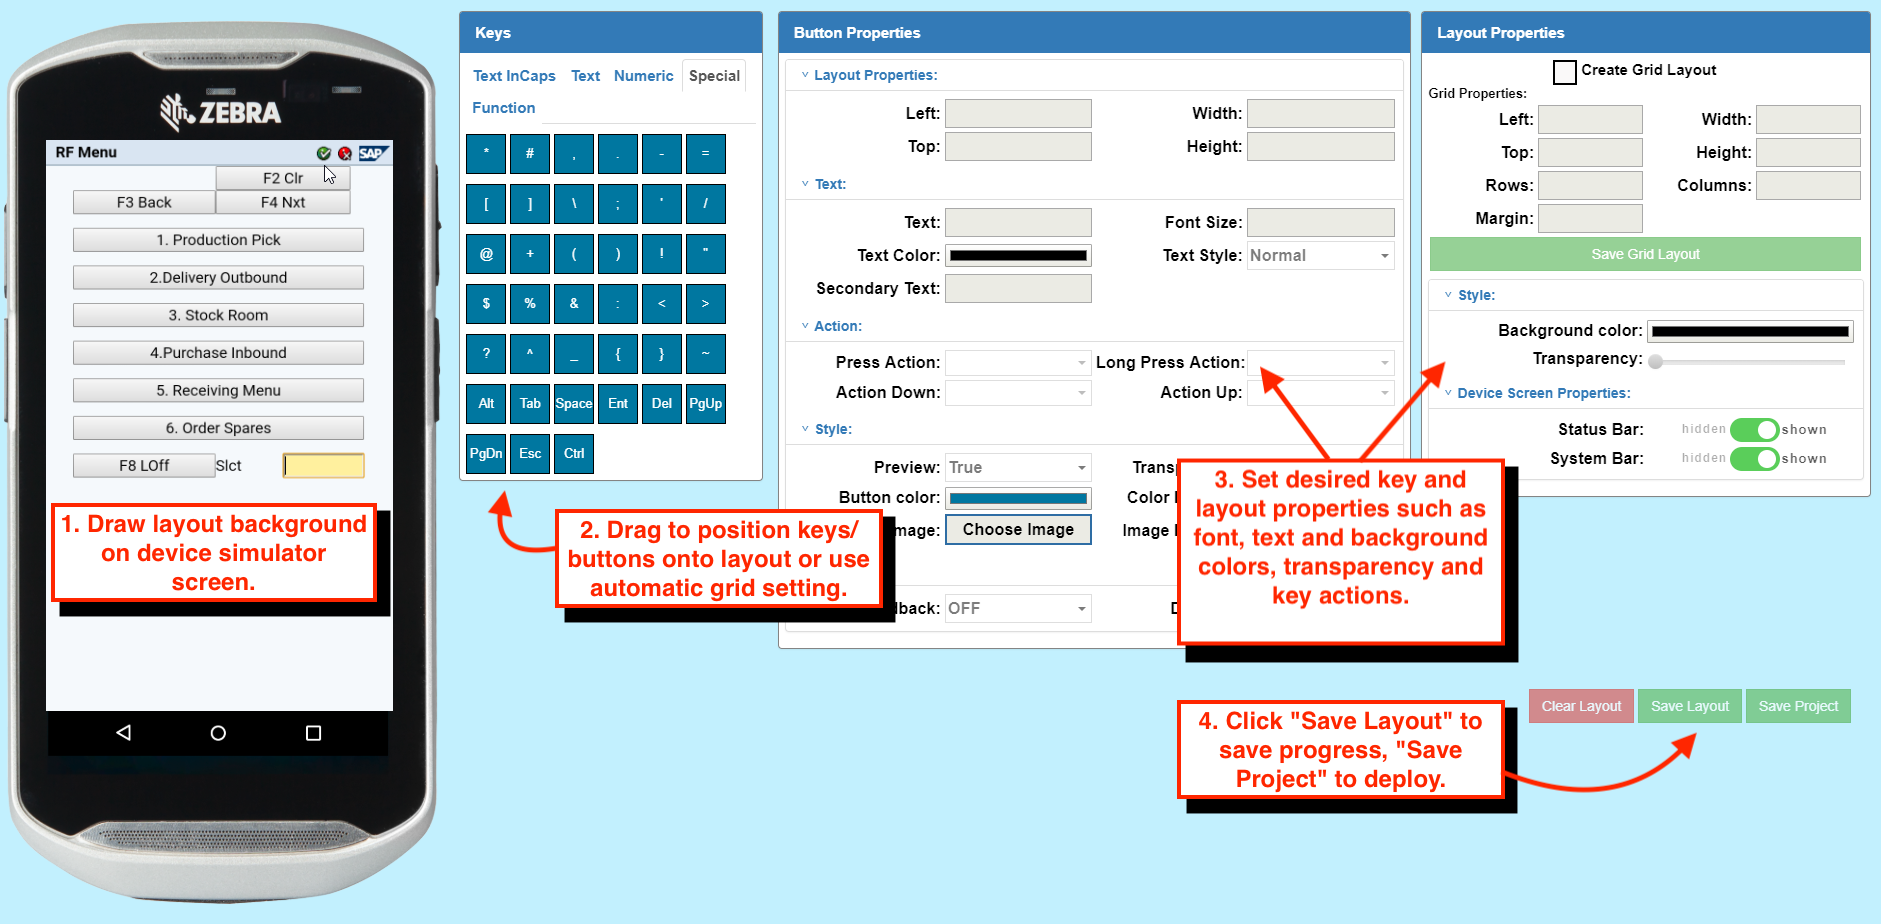
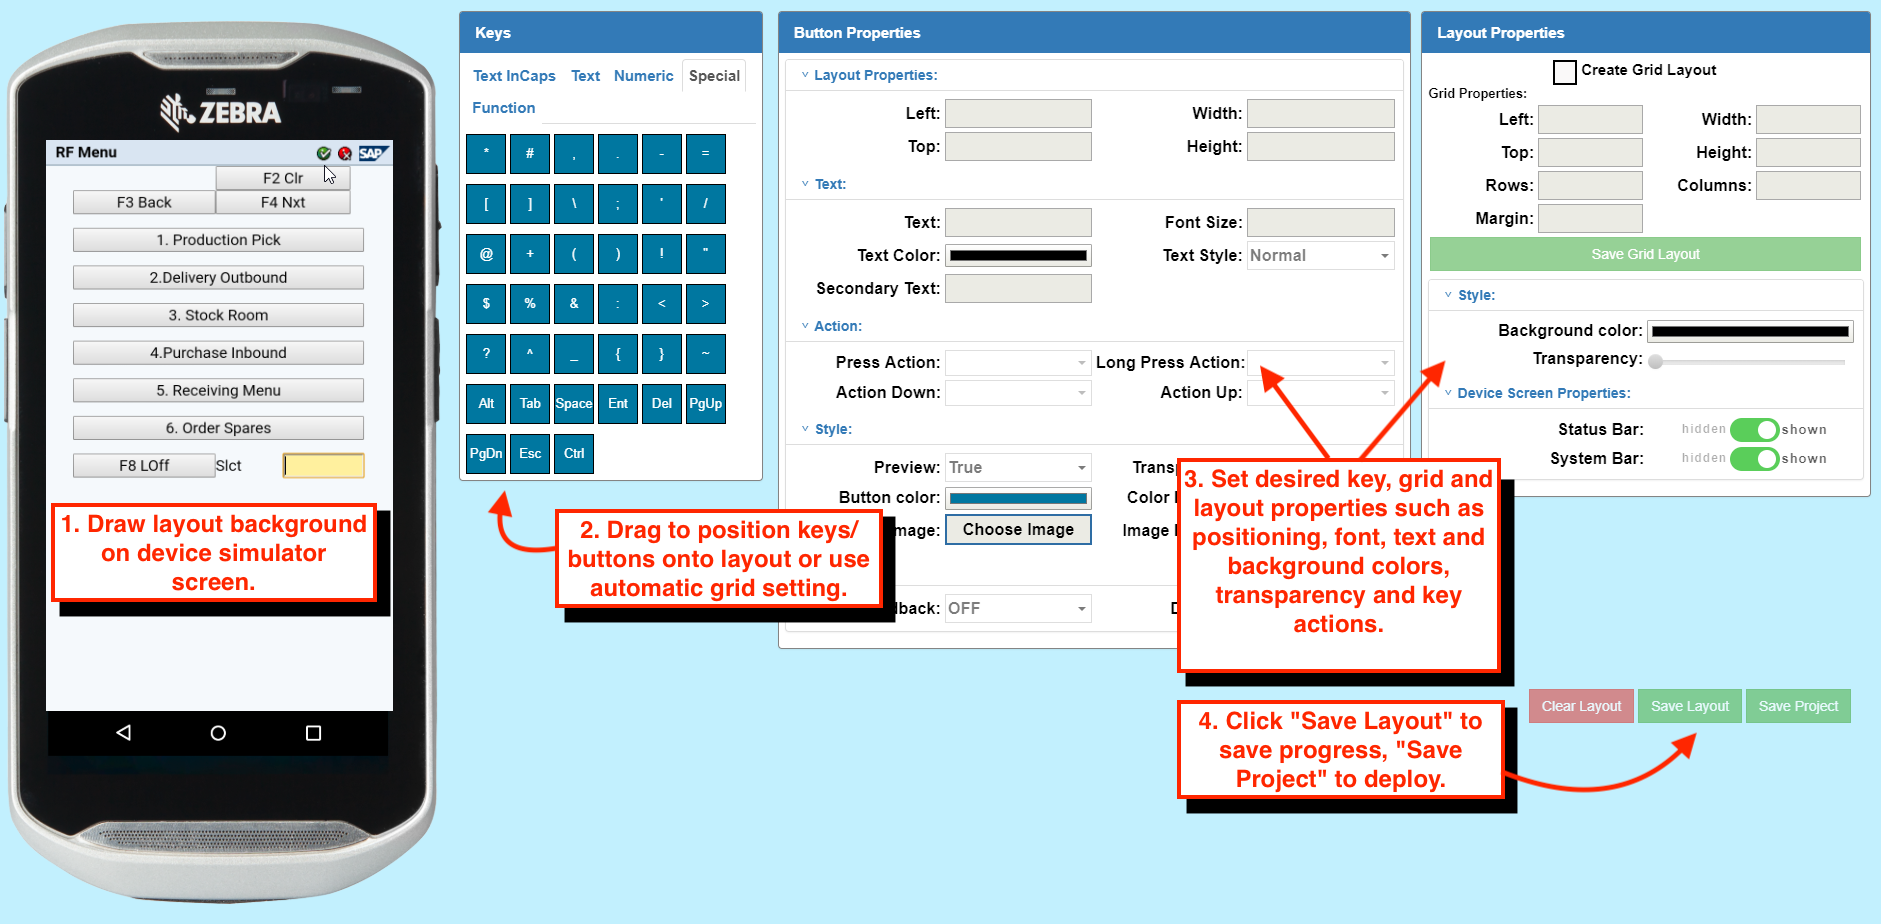
[TUT-34909] EKB 2.1 EKD user guide updates

Changed region(s): [[0.6167, 0.4848, 0.8325, 0.7576], [0.74, 0.3939, 0.7709, 0.4242]]

diff --git a/src/enterprise-keyboard/2-1/guide/ekd/index.md b/src/enterprise-keyboard/2-1/guide/ekd/index.md
@@ -99,6 +99,10 @@ For a demo of the steps above, see the "createProject.mp4” video.
  <img alt="" style="height:350px" src="ekd_drag_buttons.gif"/>
  _Click image to enlarge, ESC to exit_.
  <br>
+ **Alternatively, use Grid Layout option (checkbox)**, which automatically aligns the layout with the left and bottom edges of the simulator and divides the layout based on the specified number of columns and rows. 
+  <img alt="" style="height:350px" src="ekd_grid_layout.png"/>
+ _Click image to enlarge, ESC to exit_.
+ <br> 
 8. Click on the layout and/or key(s) to **modify properties using the [Button and Layout Properties](#buttonandlayoutproperties) panels**: 
  <img alt="" style="height:350px" src="ekd_properties_panels.png"/>
  _Click image to enlarge, ESC to exit_.
@@ -110,7 +114,7 @@ For a demo of the steps above, see the "createProject.mp4” video.
 > Data for custom layout(s) and key-value assignment(s) is stored in the keyboard definition file, a single encrypted file on the development host computer. To deploy, simply push this file to the desired mobile device(s) and activate custom layouts through application intents. Layouts are available immediately upon deployment.<br> Instructions follow below. 
 
 ### Using Grid Layout
-The Grid Layout option permits button Layouts to be created more quickly and with more precision than the drag-and-drop method. When a Grid is initially created, it is automatically placed with its left and bottom edges flush with the left and bottom edges of the simulator.  
+The Grid Layout option permits button Layouts to be created more quickly and with more precision than the drag-and-drop method. When a Grid is initially created, it is   
 
 1. Create or open a Layout to edit (if not already open). 
 2. Check the “Create Grid Layout” checkbox. This enables parameters to be entered in the Grid Properties input fields shown below. Configure the values as required (in pixels or count, as applicable). Changes are immediately visible in the Layout. 
@@ -141,7 +145,7 @@ The Grid Layout option permits button Layouts to be created more quickly and wit
 
 ## Button and Layout Properties
 
-Grid Properties:
+#### Grid Properties:
 
 **Left -** Layout offset (in pixels) from the left edge of the screen.
 
@@ -162,13 +166,7 @@ Grid Properties:
 5. Configure Layout Properties as required (see below).
 <b>Switch layouts with taps or swipes</b> across the keypad:  
 
-<!-- <img alt="" style="height:350px" src="sample_1.png"/>
-_The Tab bar can be set to automatically hide away, maximizing screen space for applications_. 
-
-<br>
--->
-
-**Notes**: 
+##### Grid Usage Notes
 * Layout drag and resize features are disabled when using Grid Layout. 
 * Button drag and resize features are enabled only after saving the Grid Layout clicking the “Save Grid Layout” button, in the Layout Properties panel.
 
@@ -244,8 +242,7 @@ The currently selected key is indicated by a red border, and input fields for it
 <b>Switch layouts with taps or swipes</b> across the keypad:  
 <img alt="" style="height:150px" src="ekd_07.png"/>
 
-
-Action to Switch Layout - Use the key-value pairs below to switch to a specific layout when using Zebra Enterprise Keyboard.
+**Action to Switch Layout -** Use the key-value pairs below to switch to a specific layout when using Zebra Enterprise Keyboard.
 
 Predefined commands:
 
